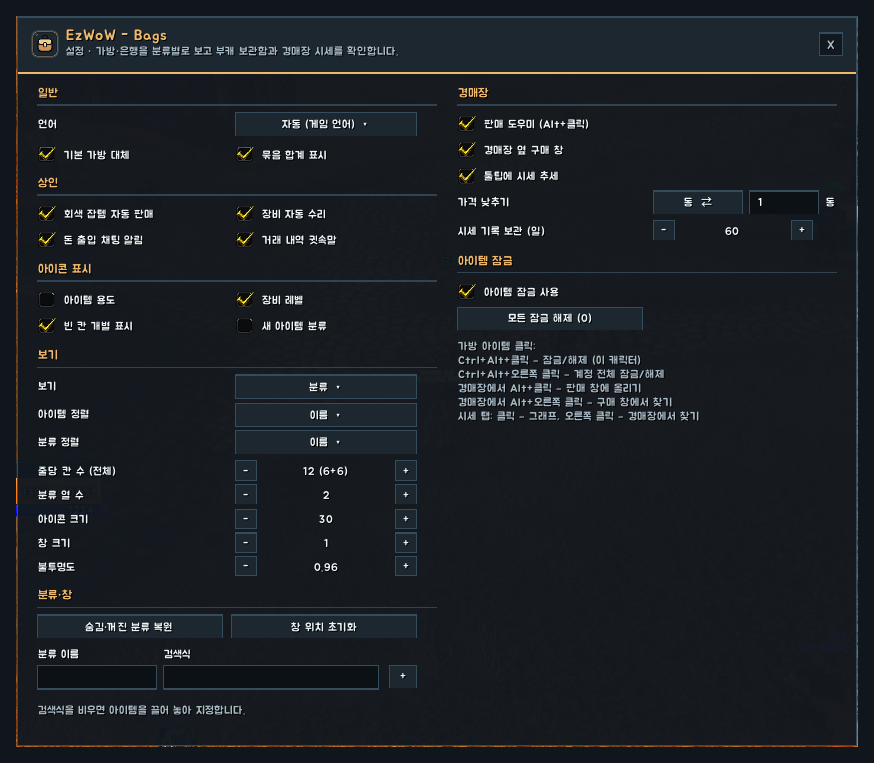
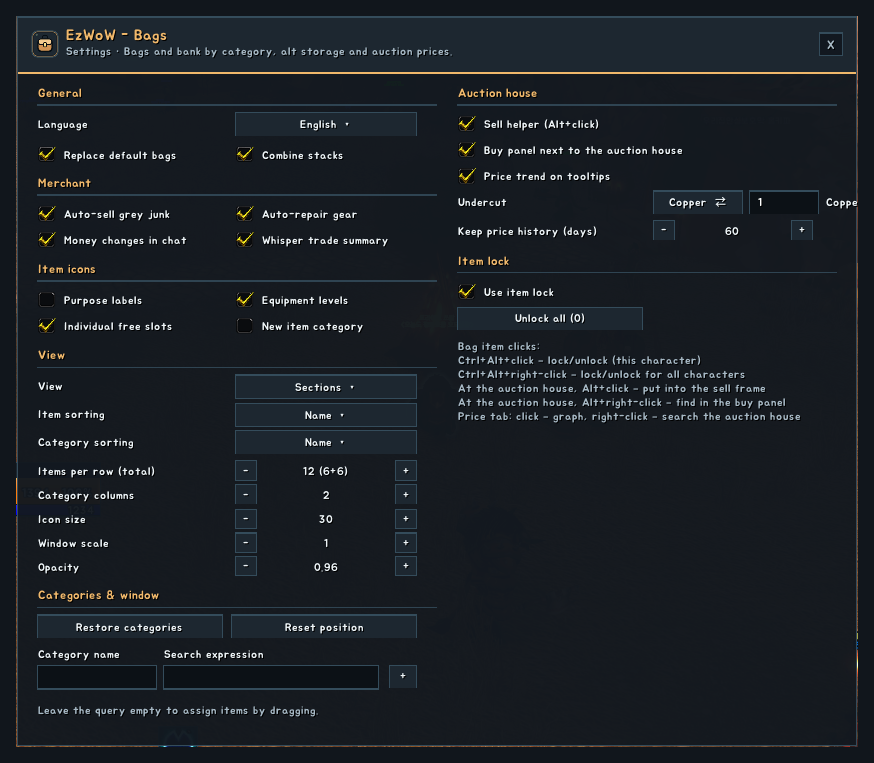
영어 설명용 게임 화면 추가

diff --git a/README.md b/README.md
@@ -143,7 +143,7 @@ A bag addon that shows your bags and bank in one window, **grouped by category**
 
 ![Settings window](https://raw.githubusercontent.com/qqhrqqhr2/EzWoW-Bags/master/docs/images/settings_en.png)
 
-> In-game screenshots (WoW Forever, Korean client). Character and player names and chat text are blurred.
+> In-game screenshots with the addon set to English. The game client is Korean, so game text such as zone, item and spell names stays Korean. Character and player names and chat text are blurred.
 
 ### Installation
 

diff --git a/docs/curseforge_description.md b/docs/curseforge_description.md
@@ -13,7 +13,7 @@ A bag addon for WoW Forever that shows your bags and bank in one window, grouped
 
 ![Settings window](https://raw.githubusercontent.com/qqhrqqhr2/EzWoW-Bags/master/docs/images/settings_en.png)
 
-*In-game screenshots (WoW Forever, Korean client). Character and player names and chat text are blurred.*
+*In-game screenshots with the addon set to English. The game client is Korean, so game text such as zone, item and spell names stays Korean. Character and player names and chat text are blurred.*
 
 ## Features
 
